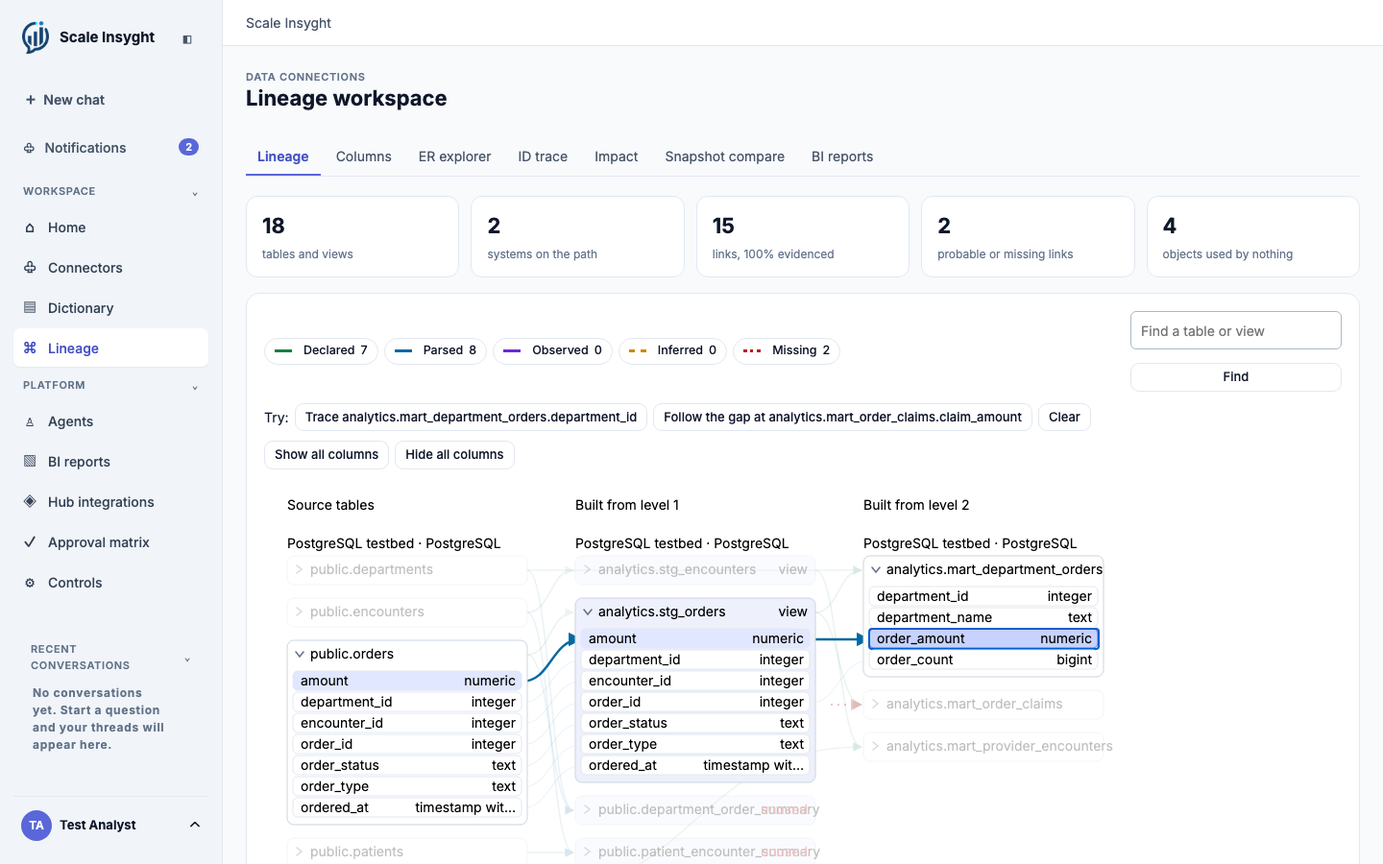
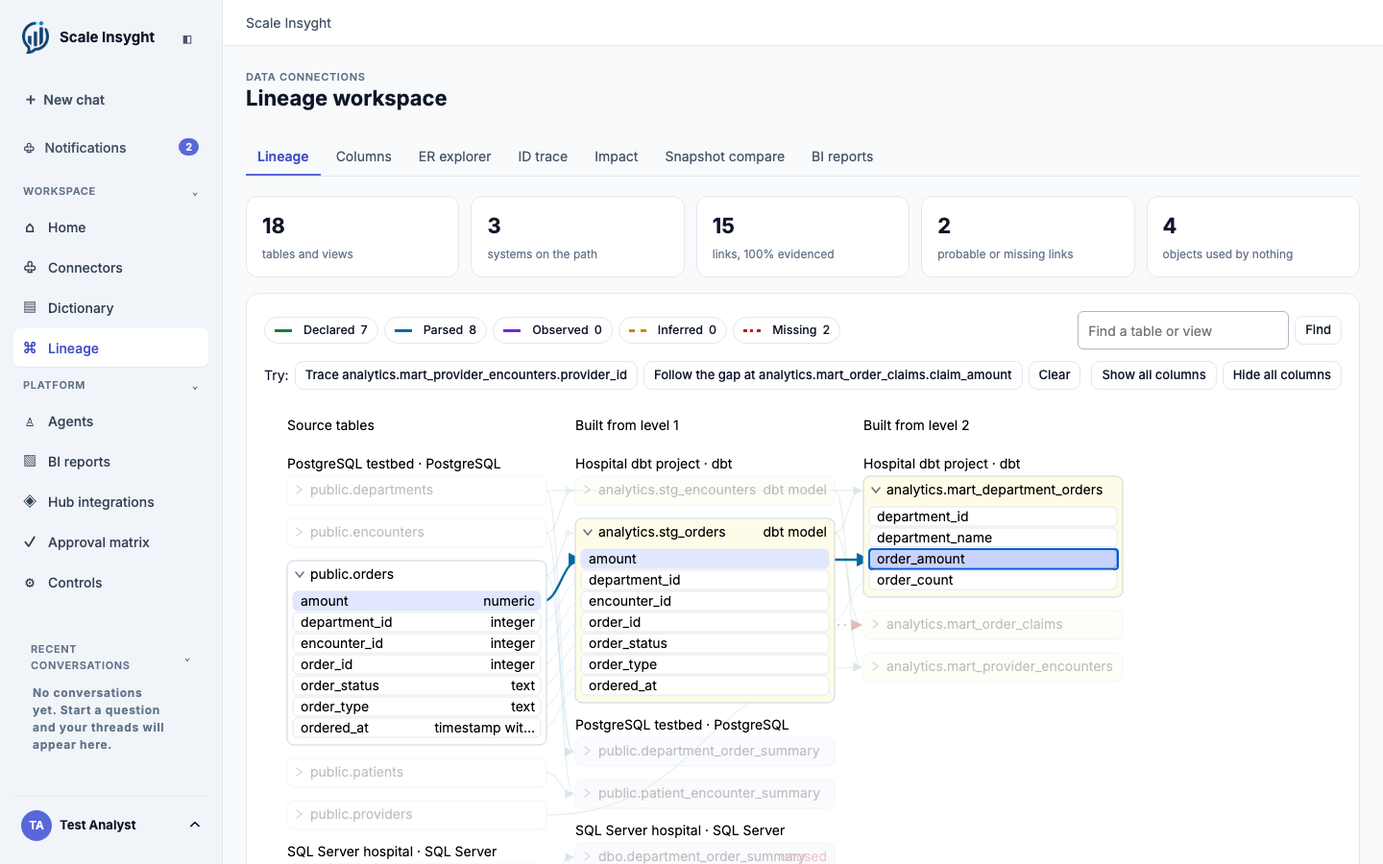
Testbed dbt schema is invisible to the product login; lineage requests may name linked dbt models; known issue K2

diff --git a/tests/testbed/c6_testbed_view_lineage.test.ts b/tests/testbed/c6_testbed_view_lineage.test.ts
@@ -11,7 +11,7 @@ import { startSqlParser } from '../support/sqlparse-server.js';
 config({ path: '.env' });
 const testUrl = (key: 'DATABASE_URL' | 'DATABASE_URL_MIGRATE') => { const value = process.env[key]; if (!value) throw new Error(`${key} is required; lineage contracts are never skipped`); const url = new URL(value); url.pathname = '/si_test'; return url.toString(); };
 const appPool = new Pool({ connectionString: testUrl('DATABASE_URL') }); const adminPool = new Pool({ connectionString: testUrl('DATABASE_URL_MIGRATE') });
-type DbtTruth = { models: Record<string, { declaredReads: string[]; columns?: Record<string, string[]> }>; gaps: Array<{ asset: string; reasonIncludes: string }> };
+type DbtTruth = { models: Record<string, { declaredReads: string[]; columns?: Record<string, string[]> }>; gaps: Array<{ asset: string; reasonIncludes: string }>; modelsInDbtConnection: string[] };
 const truth = JSON.parse(readFileSync('testbed/lineage-truth.json', 'utf8')) as { views: Record<'postgres' | 'sql_server', Record<string, { reads: string[]; columns: Record<string, string[]> }>>; dbt: DbtTruth; endToEnd: Record<string, string[]> };
 let postgresId = '';
 const tenantId = `lineage-${randomUUID()}`; const email = `admin@${tenantId}.synthetic.invalid`; const password = 'lineage-view-test-password';
@@ -58,7 +58,7 @@ describe('contract 6 parsed view lineage on the testbed', () => {
   it('c6_postgres_view_sql_is_parsed_into_table_and_column_lineage_matching_truth', async () => {
     const url = new URL(process.env.DATABASE_URL_TESTBED ?? ''); if (!url.hostname) throw new Error('DATABASE_URL_TESTBED is required; run pnpm testbed:up first.');
     const id = await connect({ connectorType: 'postgres', displayName: 'PostgreSQL testbed', credential: { host: url.hostname, port: Number(url.port || 5432), database: url.pathname.slice(1), username: decodeURIComponent(url.username), password: decodeURIComponent(url.password), sslMode: 'disable' } });
-    expectViews((await flows(id)).filter((row) => !row.to_name.startsWith('analytics.mart_')), truth.views.postgres);
+    expectViews(await flows(id), truth.views.postgres);
     postgresId = id;
   });
   it('c6_sql_server_view_sql_is_parsed_into_table_and_column_lineage_matching_truth', async () => {
@@ -77,7 +77,7 @@ describe('contract 6 parsed view lineage on the testbed', () => {
     expect(wrong.statusCode).toBe(400); expect(wrong.json()).toEqual({ error: 'dbt_manifest_invalid' });
     const uploaded = await server.inject({ method: 'POST', url: `/api/connections/${id}/dbt-artifacts`, headers: { cookie }, payload: { manifest, catalog } });
     expect(uploaded.statusCode).toBe(200);
-    expect(uploaded.json<{ imported: { models: number; modelsNotInWarehouse: string[] } }>().imported).toMatchObject({ models: Object.keys(truth.dbt.models).length, modelsNotInWarehouse: [] });
+    expect(uploaded.json<{ imported: { models: number; modelsNotInWarehouse: string[] } }>().imported).toMatchObject({ models: Object.keys(truth.dbt.models).length, modelsNotInWarehouse: truth.dbt.modelsInDbtConnection });
     const rows = await withTenant(adminPool, tenantId, async (db) => (await db.query<{ from_name: string; to_name: string; granularity: string; evidence_method: string }>(
       `SELECT f.qualified_name AS from_name,t.qualified_name AS to_name,r.granularity,a.evidence_method FROM graph.assertions a JOIN graph.relationships r ON r.tenant_id=a.tenant_id AND r.relationship_id=a.relationship_id
        JOIN graph.assets f ON f.tenant_id=r.tenant_id AND f.asset_id=r.from_asset_id JOIN graph.assets t ON t.tenant_id=r.tenant_id AND t.asset_id=r.to_asset_id
@@ -97,7 +97,7 @@ describe('contract 6 parsed view lineage on the testbed', () => {
     for (const expected of truth.dbt.gaps) expect(gaps.some((gap) => gap.asset === expected.asset && gap.reason.includes(expected.reasonIncludes)), expected.asset).toBe(true);
     // End to end: a mart column traced upstream through dbt and the staging view to its source column.
     for (const [column, upstream] of Object.entries(truth.endToEnd)) {
-      const asset = await withTenant(adminPool, tenantId, async (db) => (await db.query<{ asset_id: string }>("SELECT asset_id FROM graph.assets WHERE tenant_id=$1 AND source_id=$2 AND qualified_name=$3", [tenantId, postgresId, column])).rows[0]!.asset_id);
+      const asset = await withTenant(adminPool, tenantId, async (db) => (await db.query<{ asset_id: string }>("SELECT asset_id FROM graph.assets WHERE tenant_id=$1 AND qualified_name=$2 AND active", [tenantId, column])).rows[0]!.asset_id);
       const path = (await server.inject({ method: 'GET', url: `/api/lineage?assetId=${asset}&direction=upstream`, headers: { cookie } })).json<{ assets: Array<{ qualified_name: string }> }>();
       expect(path.assets.map((item) => item.qualified_name).filter((name) => name !== column).sort()).toEqual([...upstream].sort());
     }

diff --git a/apps/api/src/live-planner.ts b/apps/api/src/live-planner.ts
@@ -31,7 +31,11 @@ export async function planLiveQuestion(pool:Pool, tenantId:string, question:stri
   for(const row of profiled.rows){const index=candidates.findIndex(candidate=>candidate.source_id===row.source_id);const table=(facts[index]![row.table_name]??={rowCount:number(row.row_count),columns:{}});if(row.column_name)table.columns[row.column_name]={distinctCount:number(row.distinct_count),nullRate:number(row.null_rate),averageLength:number(row.average_length)};}
   const metadata={classification:'METADATA_DESCRIPTIVE' as const,structural:{sources:candidates.map((row,index)=>({index,name:row.display_name||row.connector_type,type:row.connector_type,assets:catalogById.get(row.source_id)??[]})),relationships:relationships.rows},descriptive:Object.fromEntries(glossary.rows.map(row=>[row.term,row.description])),statistical:{},sensitivityTags:[]};
   const catalog=metadata.structural.sources;
-  const schema=plannerSchema(catalog,relationships.rows);
+  // dbt projects linked to a selected warehouse add their model names to lineage requests on that source (decision 46).
+  const linked=await withTenant(pool,tenantId,client=>client.query<{source_ref:string;qualified_name:string}>(`SELECT c.source_ref,a.qualified_name FROM registry.connections c JOIN graph.assets a ON a.tenant_id=c.tenant_id AND a.source_id=c.connection_id AND a.active AND a.asset_type IN ('dataset','field')
+    WHERE c.tenant_id=$1 AND c.connector_type='dbt' AND c.status='active' AND c.source_ref=ANY($2::text[]) ORDER BY 2`,[tenantId,candidates.map(row=>`warehouse:${row.source_id}`)]));
+  const lineageExtras=candidates.map(row=>linked.rows.filter(item=>item.source_ref===`warehouse:${row.source_id}`).map(item=>item.qualified_name));
+  const schema=plannerSchema(catalog,relationships.rows,lineageExtras);
   const normalize = (text:string) => normalizeCatalogMentions(text,catalog,catalog.flatMap(source=>[source.name,...(source.type==='sql_server'?['SQL Server']:[])]));
   const prompt=`Plan the exact question using the catalog and the typed response schema. First fill the declaration: what the question counts or measures (subject), the dimension it is broken down by (grouping, or null for a single value), each condition, whether it asks for values from two or more sources (comparison), and whether the catalog has a table for the subject (answerable). If it is not answerable, return an empty intents array; a loosely related object is insufficient. Then plan each source step and fill its declared fields to match: subject_table, measure, measure_column, grouping_column (null unless the answer is broken down) and filter_columns. Use the source and subject from earlier turns only when resolving a follow-up. A qualifier in the question that is not a column name is usually a category value: filter the text column most likely to hold it, in the subject table or in a table reachable through a catalog join. Never refuse only because category values are not shown to you. Count records for quantities, order totals, volume or "how many". Sum a numeric column only for a requested amount. Use the exact display header to resolve workbook columns. For a date range use gte and upperExclusive with the next calendar boundary. Ranked groups use value sort and a limit. For join operations select a catalog join and its left table. Use null for unused fields. When the question asks where a table or column comes from, its lineage, or what depends on it or would break if it changed, set lineage to that source, table or column, and direction (upstream for where it comes from, downstream for what depends on it), declare it answerable, and leave intents empty; otherwise lineage is null.
 Question: ${normalize(question)}
@@ -48,7 +52,7 @@ Prior turns: ${priorTurns.map(turn=>`${turn.role}: ${normalize(turn.content)}`).
     attempts.push({...provenance,purpose:'plan'});
     let decoded;
     try {
-      decoded=decodePlannerOutput(completion.text,catalog,relationships.rows,facts);
+      decoded=decodePlannerOutput(completion.text,catalog,relationships.rows,facts,lineageExtras);
     } catch(error) {
       const reason=error instanceof SyntaxError?'invalid_json':error instanceof Error?error.message:'invalid_intent';
       attempts.at(-1)!.error=reason;

diff --git a/apps/api/src/structured-planner.ts b/apps/api/src/structured-planner.ts
@@ -39,7 +39,7 @@ export function normalizeCatalogMentions(question: string, catalog: PlannerCatal
 
 /** The response schema. Besides the executable fields, the model declares what the question asks for (decision 44):
  * once for the question, and per source step. The decoder checks the executable plan against those declarations. */
-export function plannerSchema(catalog: PlannerCatalog, joins: PlannerJoin[]): Schema {
+export function plannerSchema(catalog: PlannerCatalog, joins: PlannerJoin[], lineageExtras: string[][] = []): Schema {
   const branches = catalog.flatMap(({assets}, sourceIndex) => {
     const connections = joins.filter(join => join.source_index === sourceIndex);
     const tables = assets.map(asset => asset.qualified_name);
@@ -70,7 +70,8 @@ export function plannerSchema(catalog: PlannerCatalog, joins: PlannerJoin[]): Sc
   });
   // A lineage request names one table or column of one source and a direction; it is answered from the metadata graph.
   const lineageBranches = catalog.flatMap(({assets}, sourceIndex) => {
-    const names = assets.flatMap(asset => [asset.qualified_name, ...asset.columns.map(column => asset.qualified_name + '.' + column.name)]);
+    // Lineage may also name models of dbt projects linked to this source (lineageExtras).
+    const names = [...new Set([...assets.flatMap(asset => [asset.qualified_name, ...asset.columns.map(column => asset.qualified_name + '.' + column.name)]), ...(lineageExtras[sourceIndex] ?? [])])];
     return names.length ? [object({source_index:{type:'integer',enum:[sourceIndex]}, asset:literal(names,'The table, or table.column, the question asks about.'),
       direction:literal(['upstream','downstream'],'upstream: where its data comes from. downstream: what reads it or would break if it changed.')})] : [];
   });
@@ -101,7 +102,7 @@ const sameSet = (left: string[], right: string[]) => new Set(left).size === new 
 
 /** Decodes the structured response into typed intents and checks the executable plan against the declared intent.
  * No pattern matching over the user's question: the declaration is the contract the plan must meet. */
-export function decodePlannerOutput(text: string, catalog: PlannerCatalog, joins: PlannerJoin[], facts: PlannerFacts = []): {declaration: PlanDeclaration; steps: DecodedStep[]; lineage?: LineageRequest} {
+export function decodePlannerOutput(text: string, catalog: PlannerCatalog, joins: PlannerJoin[], facts: PlannerFacts = [], lineageExtras: string[][] = []): {declaration: PlanDeclaration; steps: DecodedStep[]; lineage?: LineageRequest} {
   const parsed = JSON.parse(text) as {declaration?: PlanDeclaration; intents?: Array<Record<string, unknown>>; lineage?: {source_index?: unknown; asset?: unknown; direction?: unknown} | null};
   const declaration = parsed.declaration;
   if (!declaration || typeof declaration.answerable !== 'boolean' || typeof declaration.comparison !== 'boolean') throw new Error('missing_declaration');
@@ -111,7 +112,7 @@ export function decodePlannerOutput(text: string, catalog: PlannerCatalog, joins
     // Lineage is read from recorded evidence, never computed from source data: no query intents go with it.
     const index = Number(parsed.lineage.source_index); const source = catalog[index]; const asset = String(parsed.lineage.asset); const direction = parsed.lineage.direction;
     if (!source || (direction !== 'upstream' && direction !== 'downstream')) throw new Error('lineage_request_invalid');
-    if (!source.assets.some(item => item.qualified_name === asset || item.columns.some(column => item.qualified_name + '.' + column.name === asset))) throw new Error('lineage_asset_outside_catalog');
+    if (!source.assets.some(item => item.qualified_name === asset || item.columns.some(column => item.qualified_name + '.' + column.name === asset)) && !(lineageExtras[index] ?? []).includes(asset)) throw new Error('lineage_asset_outside_catalog');
     if (parsed.intents.length) throw new Error('lineage_request_with_query_intents');
     if (!declaration.answerable) throw new Error('declared_unanswerable_but_lineage_requested');
     return {declaration, steps: [], lineage: {index, asset, direction}};

diff --git a/scripts/testbed-dbt.ts b/scripts/testbed-dbt.ts
@@ -6,8 +6,8 @@ import { config } from 'dotenv';
 import { Client } from 'pg';
 
 // Builds the testbed dbt project (testbed/dbt) into the PostgreSQL testbed and writes manifest.json and catalog.json
-// to testbed/dbt/target for upload through the product. Runs as the local superuser that owns the testbed; the product's
-// read-only role gains SELECT on the analytics schema only. The billing schema stays invisible to it on purpose.
+// to testbed/dbt/target for upload through the product. Runs as the local superuser that owns the testbed. The product's
+// read-only role sees neither the analytics schema nor the billing schema.
 config({ path: resolve('.env') });
 const configured = process.env.DATABASE_URL_ADMIN;
 const ownerUrl = configured ? new URL(configured) : new URL('postgresql://127.0.0.1:5432/postgres');
@@ -21,8 +21,8 @@ try {
     CREATE TABLE billing.claims AS SELECT order_id, round(amount * 0.8, 2)::numeric(9,2) AS claim_amount FROM public.orders WHERE order_id % 3 = 0;
     REVOKE ALL ON SCHEMA billing FROM PUBLIC;
     CREATE SCHEMA IF NOT EXISTS analytics;
-    GRANT USAGE ON SCHEMA analytics TO si_testbed_reader;
-    ALTER DEFAULT PRIVILEGES IN SCHEMA analytics GRANT SELECT ON TABLES TO si_testbed_reader;`);
+    REVOKE ALL ON SCHEMA analytics FROM PUBLIC;
+    ALTER DEFAULT PRIVILEGES IN SCHEMA analytics REVOKE SELECT ON TABLES FROM si_testbed_reader;`);
 } finally { await owner.end(); }
 const profilesDir = resolve('.local/dbt/testbed-profiles');
 mkdirSync(profilesDir, { recursive: true });
@@ -34,7 +34,9 @@ const project = resolve('testbed/dbt');
 for (const command of [['run'], ['docs', 'generate']]) {
   execFileSync(dbt, [...command, '--project-dir', project, '--profiles-dir', profilesDir, '--target', 'local'], { stdio: 'inherit', env: { ...process.env, DBT_LOG_PATH: resolve('.local/dbt/testbed-logs') } });
 }
-const grant = new Client({ connectionString: ownerUrl.toString() });
-await grant.connect();
-try { await grant.query('GRANT SELECT ON ALL TABLES IN SCHEMA analytics TO si_testbed_reader'); } finally { await grant.end(); }
+// The product's read-only login sees the operational schema only, as a source system would. The dbt models reach the
+// graph through the uploaded artifacts (known issue K2 records why the warehouse schema is not exposed to that login).
+const revoke = new Client({ connectionString: ownerUrl.toString() });
+await revoke.connect();
+try { await revoke.query('REVOKE ALL ON ALL TABLES IN SCHEMA analytics FROM si_testbed_reader; REVOKE ALL ON SCHEMA analytics FROM si_testbed_reader'); } finally { await revoke.end(); }
 process.stdout.write(`dbt artifacts: ${resolve(project, 'target/manifest.json')} and catalog.json\n`);

diff --git a/packages/analytic/src/index.ts b/packages/analytic/src/index.ts
@@ -127,7 +127,8 @@ export async function validateAnalyticPlan(pool: Pool, input: { tenantId: string
       && plan.scope.source_ids.some((sourceId) => !entitlement.rows.some((row) => row.resource_id === sourceId))) throw new Error('principal_not_entitled');
     for(const step of plan.steps)if('query_intent'in step.inputs)await validateIntentAssets(client,step.source_id,parseQueryIntent(step.inputs.query_intent));
     for(const step of plan.steps)if('lineage_request'in step.inputs){const request=parseLineageRequest(step.inputs.lineage_request);
-      const found=await client.query("SELECT 1 FROM graph.assets WHERE tenant_id=current_setting('app.tenant_id') AND source_id=$1 AND qualified_name=$2 AND active AND asset_type IN ('dataset','field')",[step.source_id,request.asset]);
+      const found=await client.query(`SELECT 1 FROM graph.assets WHERE tenant_id=current_setting('app.tenant_id') AND qualified_name=$2 AND active AND asset_type IN ('dataset','field')
+        AND (source_id=$1 OR source_id IN (SELECT connection_id FROM registry.connections WHERE tenant_id=current_setting('app.tenant_id') AND connector_type='dbt' AND status='active' AND source_ref='warehouse:'||$1::text))`,[step.source_id,request.asset]);
       if(!found.rowCount)throw new Error('analytic_query_table_not_found');}
   });
   return { tenantId: input.tenantId, principalId: input.principalId, plan };

diff --git a/packages/graph/src/lineage-answer.ts b/packages/graph/src/lineage-answer.ts
@@ -17,7 +17,7 @@ const RANK: Method[] = ['declared', 'parsed', 'observed', 'inferred'];
  * the evidence behind its link, gaps are stated as gaps, and an inferred link is never presented as verified. */
 export async function answerLineageRequest(pool: Pool, input: { tenantId: string; sourceId: string; sourceName: string; asset: string; direction: 'upstream' | 'downstream' }): Promise<{ value: number; lineage: LineageSummary; claims: Claim[]; evidence: EvidenceRef[] }> {
   const start = await withTenant(pool, input.tenantId, (client) => client.query<{ asset_id: string }>(
-    `SELECT asset_id FROM graph.assets WHERE tenant_id=$1 AND source_id=$2 AND qualified_name=$3 AND active AND asset_type IN ('dataset','field')`, [input.tenantId, input.sourceId, input.asset]));
+    `SELECT asset_id FROM graph.assets WHERE tenant_id=$1 AND qualified_name=$3 AND active AND asset_type IN ('dataset','field') AND (source_id=$2 OR source_id IN (SELECT connection_id FROM registry.connections WHERE tenant_id=$1 AND connector_type='dbt' AND status='active' AND source_ref='warehouse:'||$2::text)) ORDER BY (source_id=$2) DESC LIMIT 1`, [input.tenantId, input.sourceId, input.asset]));
   const assetId = start.rows[0]?.asset_id;
   if (!assetId) throw new Error('lineage_asset_not_found');
   const path = await queryLineage(pool, { tenantId: input.tenantId, assetId, direction: input.direction });

diff --git a/packages/graph/src/dbt-artifacts.ts b/packages/graph/src/dbt-artifacts.ts
@@ -91,6 +91,6 @@ export async function importDbtArtifacts(pool: Pool, input: { tenantId: string; 
         totals.gaps++;
       }
     }
-    return { models: artifacts.models.length, sources: artifacts.sources, ...totals, modelsNotInWarehouse: notInWarehouse };
+    return { models: artifacts.models.length, sources: artifacts.sources, ...totals, modelsNotInWarehouse: notInWarehouse.sort() };
   });
 }

diff --git a/docs/decisions.md b/docs/decisions.md
@@ -51,4 +51,4 @@ Status values: **decided**, **open** (with the phase it is needed by), or **assu
 | 43 | Daily model budget as USD caps per tenant and per user | decided | Replace the 100,000-token daily tenant cap (about 28 questions a day at the measured 3,500 tokens per question) with two daily USD caps read from `.env`: `MODEL_DAILY_COST_CAP_USD` per tenant (default 5) and `MODEL_DAILY_USER_COST_CAP_USD` per person (default 1). Measured cost per question in the planner evaluation is about USD 0.0013 with gpt-6-luna planning and USD 0.009 with gpt-6.2-sol, so USD 5 allows roughly 3,800 or 550 questions a day per workspace, and USD 1 roughly 770 or 110 per person: well above real analyst use, while a runaway client loop is stopped at USD 1. Reservations and usage rows record the person (migration 028); the Usage screen shows today's workspace and personal spend against both caps. Alternatives considered: a higher token cap (tokens do not track cost across models), a per-tenant cap only (one person or loop can exhaust the workspace). | Proposed by agent 25 Nov 2026; decided by Yashaswi as assumed, 25 Nov 2026 |
 | 44 | Planning model and declared-intent planning | decided | Plan with gpt-6.2-sol through the gateway's `planning` alias (`MODEL_PLANNING`, default `MODEL_DEFAULT`); gpt-6-luna stays available by setting `MODEL_PLANNING=gpt-6-luna`. Luna passed the evaluation but produced a confident wrong plan in a walkthrough (a per-department question answered as one total), and planning costs about 0.7 cents per question, so accuracy comes first. The structured plan declares its subject, grouping, conditions, comparison and answerability, and each source step declares its subject table, measure, grouping column and filter columns. The decoder checks the executable plan against those declarations; no pattern matching over the question text. A second call to the planning model checks that the plan answers the question; a no triggers a repair, and a plan that never passes is a refusal. | Yashaswi, 25 Nov 2026 |
 | 45 | Display labels for key columns, chosen by code | decided | When a plan groups by a key column (for example `department_id` or `provider_id`), the answer shows the related table's human label with the key beside it, through the asserted relationship. Code decides, from profile facts and never from names: the key must reference the related table through a declared relationship or an inferred one with full measured coverage, and have no nulls, so the join keeps every record; the label is that table's untagged text column that is unique and complete there, preferring the longest values (a name over a code), with ties going to the column name. A key or label that is tagged is never shown. The rule is recorded with each plan step (`display_label`: key, label, relationship) and the decoder checks that the executable plan groups by the label with the key as the group key. Verification checks the computation the model planned; the label changes only how groups are shown. To give code these facts, the PostgreSQL and SQL Server connectors now measure null rate, distinct count and average text length on untagged scalar columns in one aggregate query per table (tables above 10 million rows keep them unmeasured), as the Excel connector already did; migration 031 stores the average length. The same facts reject grouping a table by a column that is unique in it: each group would be a single record, which is row-level, and disclosure would withhold every cell (known issue K1). Averages per entity keep the key, since that intent has no join form. The planner evaluation accepts a group when either the shown label or the shown key matches the expected group, because both are displayed. Alternatives considered: let the model choose the label (rejected: the user asked for code to decide, and the model chose inconsistently in Q31); pick label columns by name patterns such as `_name` (rejected: fragile and vocabulary-dependent); a LEFT JOIN so null keys survive (rejected for now: needs a new intent form in three dialects; keys with nulls keep the key instead). Measured statistics are part of each field's version, so a re-profile that measures different values writes a new field version and profile row; history is never overwritten, and connections profiled before migration 031 gain statistics on their next profile run. | Rule requested by Yashaswi, 25 Nov 2026; label choice details by agent |
-| 46 | S4 lineage collection, dbt import and lineage questions | assumed, pending Yashaswi | (1) Views are parsed while a PostgreSQL or SQL Server source is profiled: the SQLGlot service (`POST /lineage`) resolves each output column against the profiled schema and returns names only; PostgreSQL definitions are read with an empty search path so every table is schema-qualified. Edges are `DERIVES_FROM` data flow with `parsed` evidence at table and column level. (2) A dbt project is a connection of type `dbt` created by uploading `manifest.json` and `catalog.json` through Add connector and linked to the warehouse connection it builds into. Table edges come from dbt's `depends_on` (`declared`); column edges come from parsing each model's compiled SQL (`parsed`). Compiled SQL is parsed in memory and never stored. (3) Anything the read-only login cannot see (for example a dbt source in a schema without grants) and any column the parser cannot resolve is recorded as a gap; no edge is ever inferred to fill it. Edges a collector no longer proves are closed with `valid_to`, never deleted. (4) Procedures are not graph assets (asset types are fixed by contract 6), so procedure reads and writes stay with the Dictionary procedure tabs, which are still Missing. (5) Lineage questions in chat: the planner may return a `lineage` request (one table or column of one source, upstream or downstream) in place of query intents; it is verified like any plan and runs as one `analytic.read` step whose input is `lineage_request`, which reads the metadata graph and never the source. Statements are written by code from assertions, each citing its evidence; gaps are shown as missing links, not claims. (6) Adding the dbt schema to the PostgreSQL testbed made the planner refuse "How many encounters were emergency visits in 2025?" with both databases selected (5 of 5 on main's code too; it read "emergency" as a missing encounter type). The planning prompt now says that a qualifier that is not a column name is usually a category value to filter in the subject table or a joined table, and that hidden category values are never a reason to refuse: 5 of 5 then reached the source choice, and the six questions that must be refused were still refused, 2 runs each. (7) The Lineage screen lays tables out in lanes by depth from their sources, grouped by connection, with the prototype's evidence filters, tiles, column tracing and detail panels. Alternatives considered: storing view SQL for re-parsing (rejected: SQL text may contain literals, contract 7); reading dbt artifacts from a repository or dbt Cloud (deferred: needs credentials and a new connector surface); routine assets via a new asset type (rejected: changes a frozen contract). | Agent, 25 Nov 2026 |
+| 46 | S4 lineage collection, dbt import and lineage questions | assumed, pending Yashaswi | (1) Views are parsed while a PostgreSQL or SQL Server source is profiled: the SQLGlot service (`POST /lineage`) resolves each output column against the profiled schema and returns names only; PostgreSQL definitions are read with an empty search path so every table is schema-qualified. Edges are `DERIVES_FROM` data flow with `parsed` evidence at table and column level. (2) A dbt project is a connection of type `dbt` created by uploading `manifest.json` and `catalog.json` through Add connector and linked to the warehouse connection it builds into. Table edges come from dbt's `depends_on` (`declared`); column edges come from parsing each model's compiled SQL (`parsed`). Compiled SQL is parsed in memory and never stored. (3) Anything the read-only login cannot see (for example a dbt source in a schema without grants) and any column the parser cannot resolve is recorded as a gap; no edge is ever inferred to fill it. Edges a collector no longer proves are closed with `valid_to`, never deleted. (4) Procedures are not graph assets (asset types are fixed by contract 6), so procedure reads and writes stay with the Dictionary procedure tabs, which are still Missing. (5) Lineage questions in chat: the planner may return a `lineage` request (one table or column of one source, upstream or downstream) in place of query intents; it is verified like any plan and runs as one `analytic.read` step whose input is `lineage_request`, which reads the metadata graph and never the source. Statements are written by code from assertions, each citing its evidence; gaps are shown as missing links, not claims. (6) Adding the dbt schema to the PostgreSQL testbed made the planner refuse "How many encounters were emergency visits in 2025?" with both databases selected (5 of 5 on main's code too; it read "emergency" as a missing encounter type). The planning prompt now says that a qualifier that is not a column name is usually a category value to filter in the subject table or a joined table, and that hidden category values are never a reason to refuse: 5 of 5 then reached the source choice, and the six questions that must be refused were still refused, 2 runs each. (7) The testbed builds dbt into a schema the product's read-only PostgreSQL login cannot see (known issue K2), so models are recorded under the dbt connection, and a lineage request on a warehouse source may name the models of dbt projects linked to it. PostgreSQL objects the login cannot read are recorded as inaccessible and never profiled. (8) The Lineage screen lays tables out in lanes by depth from their sources, grouped by connection, with the prototype's evidence filters, tiles, column tracing and detail panels. Alternatives considered: storing view SQL for re-parsing (rejected: SQL text may contain literals, contract 7); reading dbt artifacts from a repository or dbt Cloud (deferred: needs credentials and a new connector surface); routine assets via a new asset type (rejected: changes a frozen contract). | Agent, 25 Nov 2026 |

diff --git a/docs/known-issues.md b/docs/known-issues.md
@@ -5,3 +5,4 @@ Eval answers that were wrong once and could not be reproduced in 5 reruns of the
 | ID | Question | Seen on | What was wrong | Reruns | Status |
 |---|---|---|---|---|---|
 | K1 | Q31 "How many orders does each department have" (development set, SQL Server testbed) | `planner-robustness` at 68fe854, full eval of 24 Nov 2026 22:24 UTC, run `e62ff0ec-5f67-41e8-bd48-419a1386e783` | The planner chose the pre-aggregated view `dbo.department_order_summary` and summed `order_count` per `department_id` instead of counting `dbo.orders` per department name. Each department is one row of that view, so small-cell disclosure (decision 42) correctly withheld every group as "<11": no number was shown, but the answer gave no counts and labelled the groups by ID. Nothing sensitive was disclosed. The same question was answered correctly on 20274f8 and e408df4. | 5 of 5 correct on 68fe854 (eval runs of 25 Nov 2026 00:07 UTC, about USD 0.015 each): grouped join of `dbo.orders` to `dbo.departments`, 12 department names, Emergency 388 to Rehabilitation 25, the tie at 41 stated | Fixed on `display-labels`: code rejects grouping a table by a column that is unique in it (each group would be one record), so the summary-view plan is repaired; a plan grouped by `department_id` now shows department names with the ID beside them (decision 45). Q31 5 of 5 correct after the change |
+| K2 | Held-out set: planner refusals when a PostgreSQL source also exposes dbt staging views and marts | `s4-lineage`, full evals of 25 Nov 2026 02:58 and 03:17 UTC | With the testbed dbt project's `analytics` schema readable by the product's login, the held-out set fell from 9 correct and 1 refused to 6 correct and 4 failed (no wrong answers); the 45 development questions stayed at 39 correct, 6 refused, 0 wrong. Hiding that schema restored 9 correct and 1 refused with the same code. The held-out questions are not read (testing rule), so the cause is not diagnosed; development probes found and fixed two related refusals (a category qualifier read as a missing column, and a multi-step plan for an average). | Not rerun per question: the held-out set is scored only in aggregate | Open. The testbed now builds dbt into a schema the product's read-only login cannot see, as a source system would; dbt models reach the graph from the uploaded artifacts. Next step: write development questions over a source that includes warehouse marts and fix what they show |
